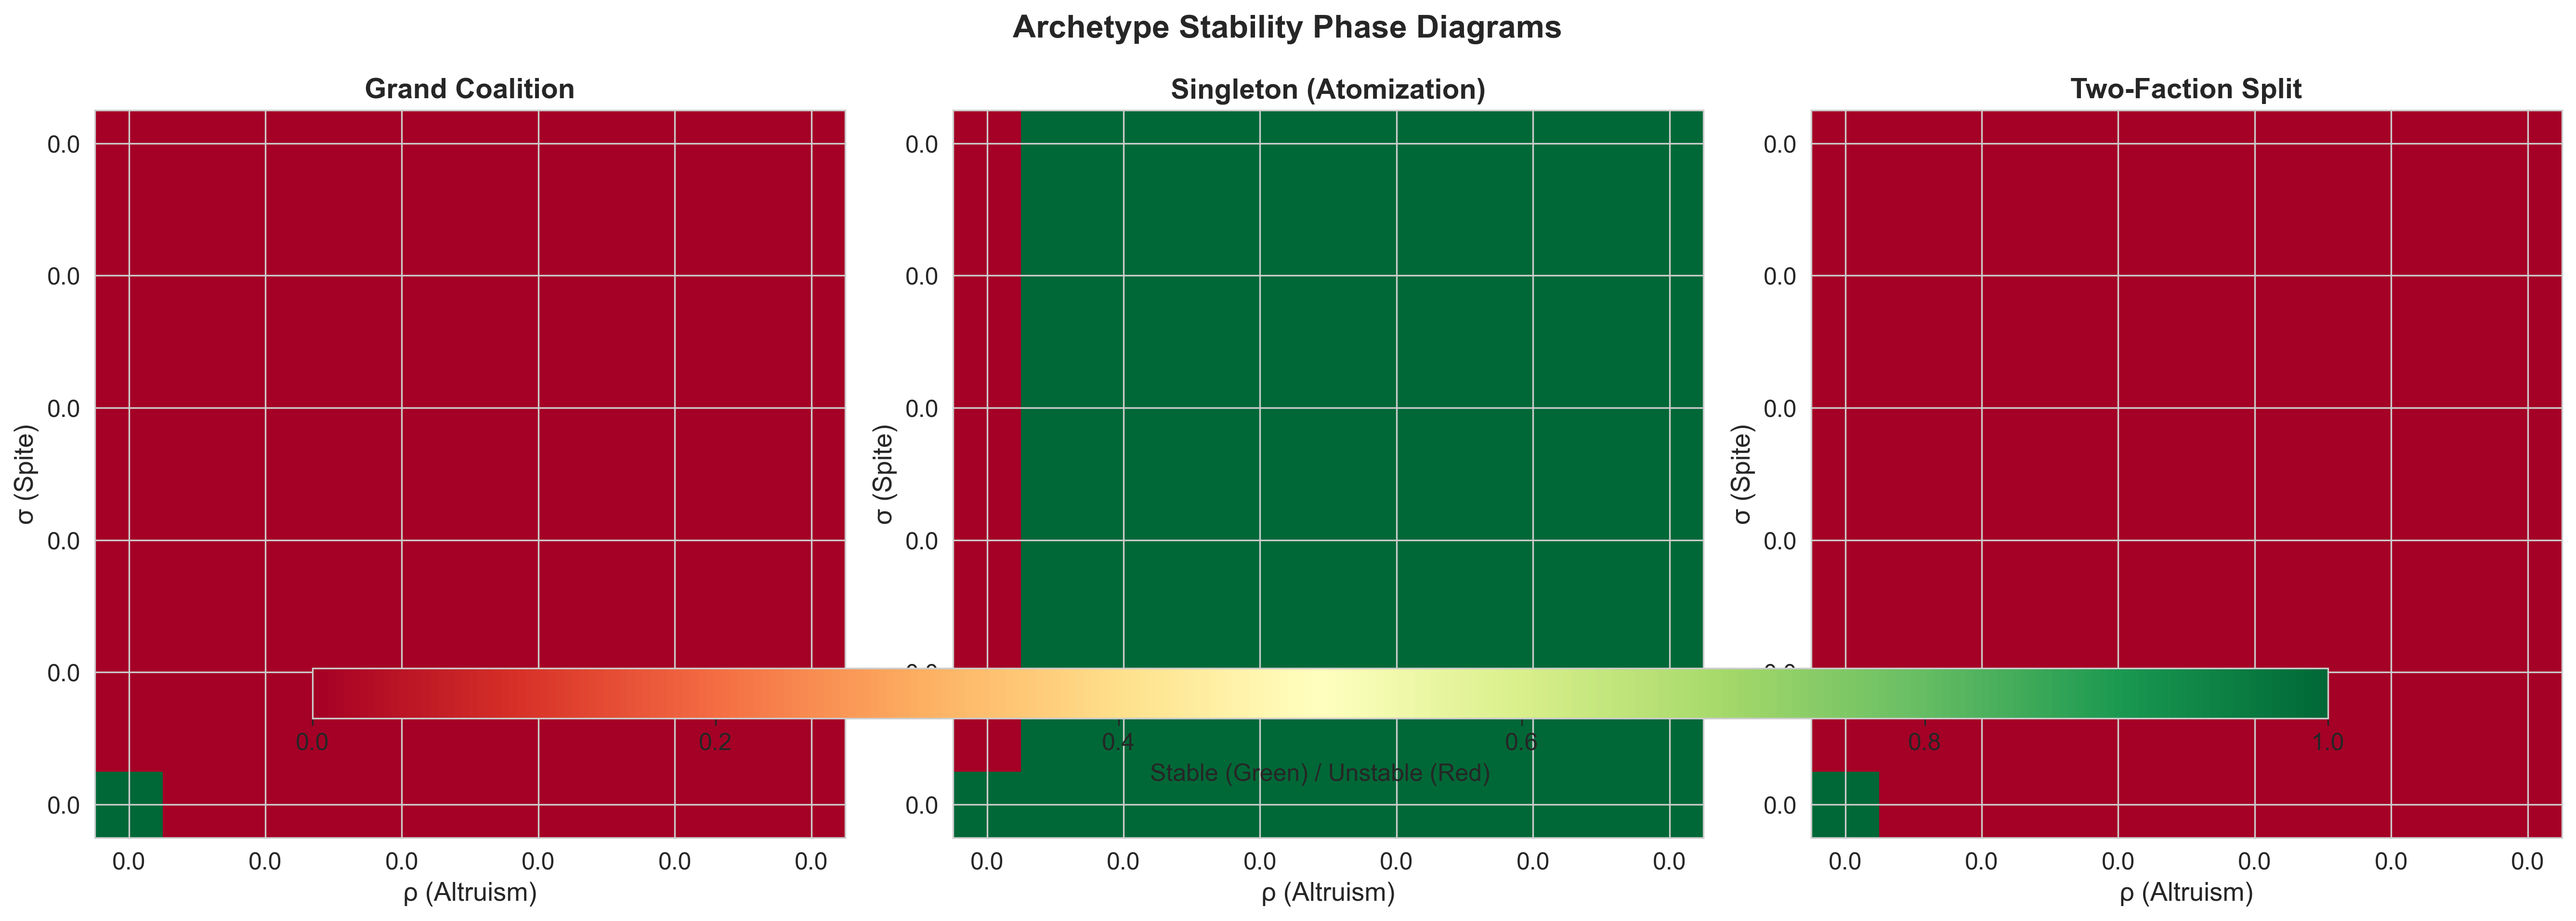
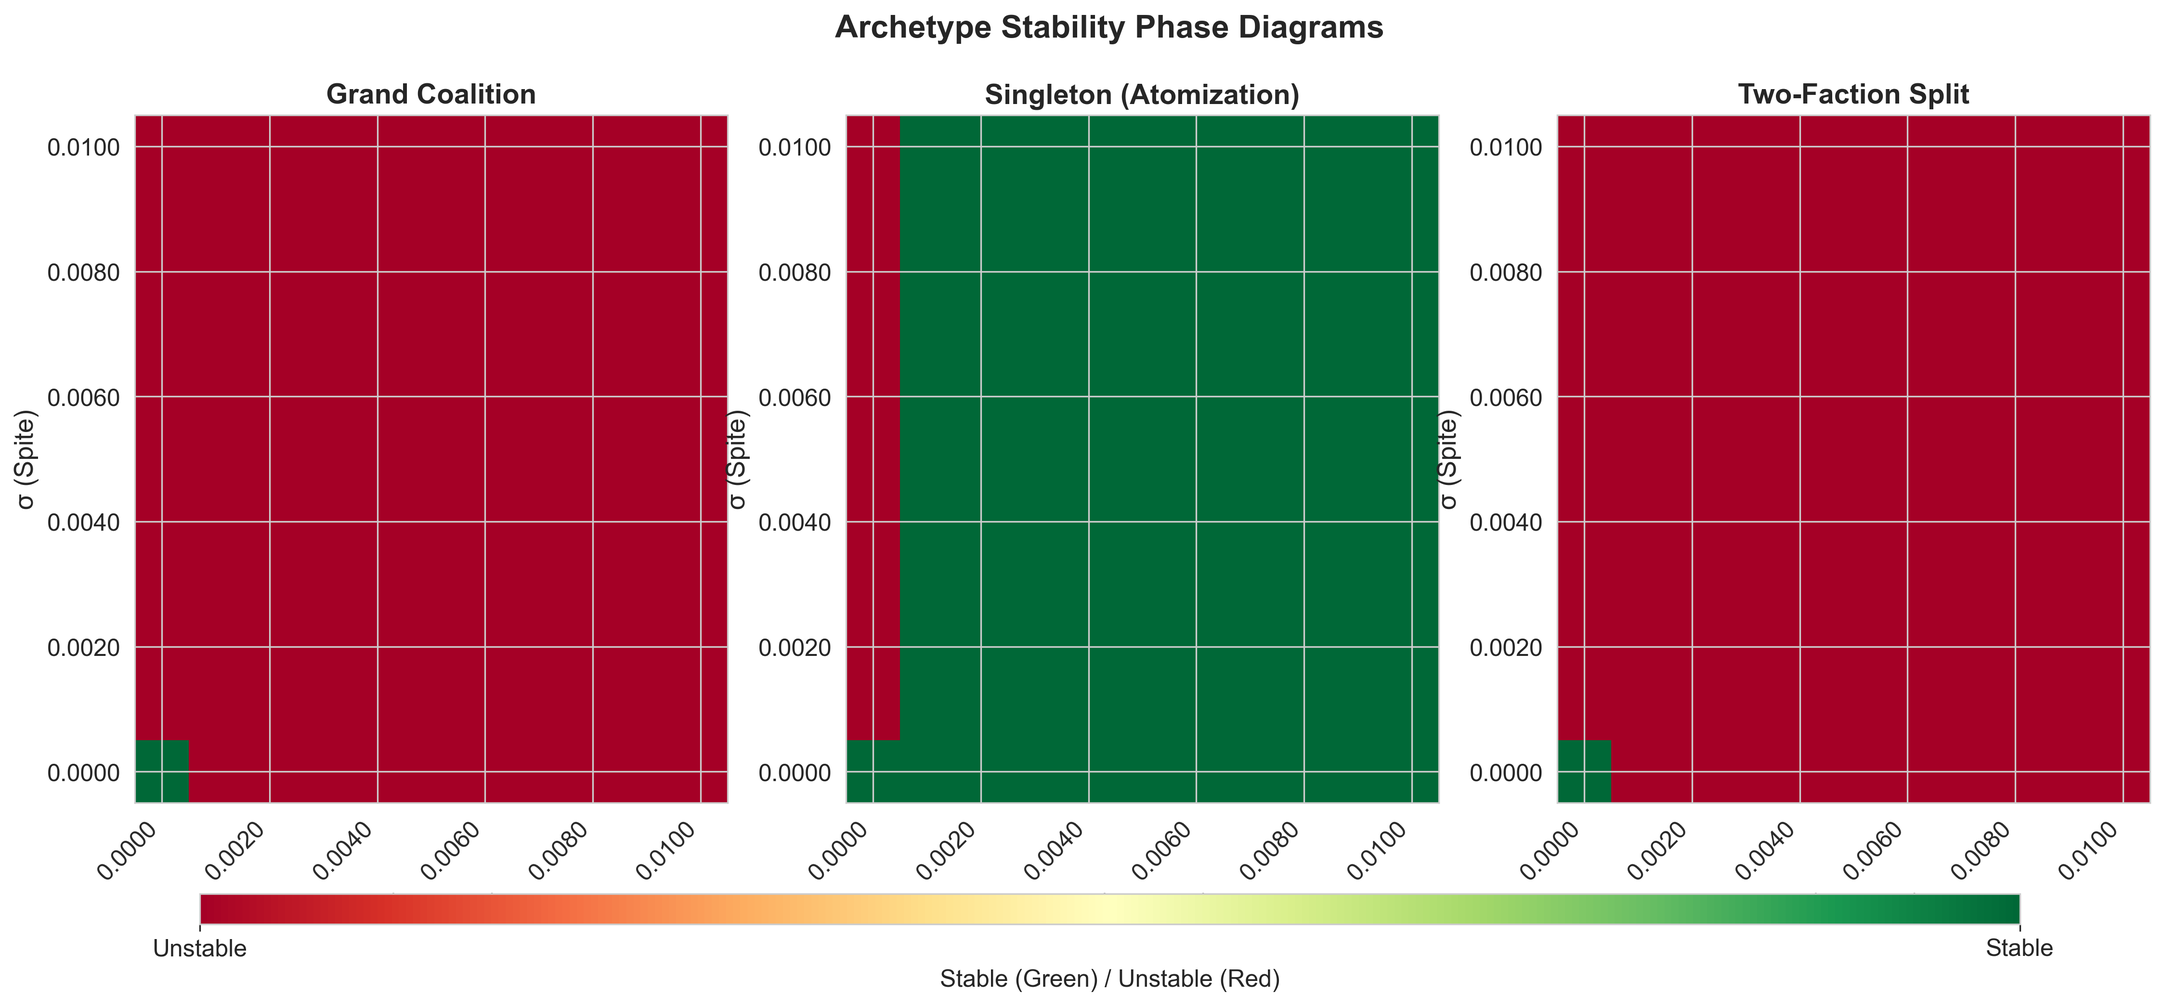
visualization

diff --git a/visualization.py b/visualization.py
@@ -88,8 +88,8 @@ class ExperimentVisualizer:
             arch = r['archetype']
             matrices[arch][i, j] = 1 if r['is_stable'] else 0
         
-        # Create three-panel figure
-        fig, axes = plt.subplots(1, 3, figsize=(18, 6))
+        # Create three-panel figure with space for colorbar at bottom
+        fig, axes = plt.subplots(1, 3, figsize=(18, 7))
         
         titles = {
             'grand': 'Grand Coalition',
@@ -97,25 +97,32 @@ class ExperimentVisualizer:
             'factions': 'Two-Faction Split'
         }
         
+        # Determine tick step for readable axis labels
+        tick_step = max(1, len(rho_values) // 5)
+        
         for ax, arch in zip(axes, archetypes):
             im = ax.imshow(matrices[arch], cmap='RdYlGn', aspect='auto', origin='lower',
                           vmin=0, vmax=1)
             
-            ax.set_xticks(range(0, len(rho_values), max(1, len(rho_values)//5)))
-            ax.set_yticks(range(0, len(sigma_values), max(1, len(sigma_values)//5)))
-            ax.set_xticklabels([f'{rho_values[i]:.1f}' for i in range(0, len(rho_values), max(1, len(rho_values)//5))])
-            ax.set_yticklabels([f'{sigma_values[i]:.1f}' for i in range(0, len(sigma_values), max(1, len(sigma_values)//5))])
+            ax.set_xticks(range(0, len(rho_values), tick_step))
+            ax.set_yticks(range(0, len(sigma_values), tick_step))
+            # Use .4f format to show full precision for small values like 0.001
+            ax.set_xticklabels([f'{rho_values[i]:.4f}' for i in range(0, len(rho_values), tick_step)], rotation=45, ha='right')
+            ax.set_yticklabels([f'{sigma_values[i]:.4f}' for i in range(0, len(sigma_values), tick_step)])
             
             ax.set_xlabel('ρ (Altruism)', fontsize=13)
             ax.set_ylabel('σ (Spite)', fontsize=13)
             ax.set_title(titles[arch], fontsize=14, weight='bold')
         
-        # Add colorbar
-        cbar = fig.colorbar(im, ax=axes, orientation='horizontal', pad=0.1, aspect=40)
-        cbar.set_label('Stable (Green) / Unstable (Red)', fontsize=12)
+        fig.suptitle('Archetype Stability Phase Diagrams', fontsize=16, weight='bold', y=0.98)
         
-        fig.suptitle('Archetype Stability Phase Diagrams', fontsize=16, weight='bold')
-        plt.tight_layout()
+        # Add colorbar below the plots (not overlapping)
+        fig.subplots_adjust(bottom=0.2)
+        cbar_ax = fig.add_axes([0.15, 0.08, 0.7, 0.03])  # [left, bottom, width, height]
+        cbar = fig.colorbar(im, cax=cbar_ax, orientation='horizontal')
+        cbar.set_label('Stable (Green) / Unstable (Red)', fontsize=12)
+        cbar.set_ticks([0, 1])
+        cbar.set_ticklabels(['Unstable', 'Stable'])
         
         output_path = self.output_dir / 'archetype_stability_phases.png'
         plt.savefig(output_path, dpi=300, bbox_inches='tight')
@@ -148,44 +155,43 @@ class ExperimentVisualizer:
         sigma_values = [r['sigma'] for r in results]
         split_incentives = [r['split_incentive'] for r in results]
         is_stable = [r['is_split_stable'] for r in results]
-        social_costs = [r['social_cost_grand'] for r in results]
         
-        # Create figure with two subplots
-        fig, (ax1, ax2) = plt.subplots(2, 1, figsize=(12, 10))
+        # Create single figure (removed the second subplot about efficiency)
+        fig, ax = plt.subplots(figsize=(10, 6))
         
-        # Plot 1: Split incentive
+        # Plot split incentive vs sigma
         colors = ['green' if stable else 'red' for stable in is_stable]
-        ax1.plot(sigma_values, split_incentives, 'o-', linewidth=2, markersize=6)
-        ax1.scatter(sigma_values, split_incentives, c=colors, s=100, alpha=0.7, edgecolors='black')
+        ax.plot(sigma_values, split_incentives, 'o-', linewidth=2, markersize=8, color='steelblue')
+        ax.scatter(sigma_values, split_incentives, c=colors, s=120, alpha=0.8, edgecolors='black', zorder=5)
         
-        # Mark transition point
+        # Mark transition point if exists
+        has_transition = False
         for i in range(1, len(is_stable)):
             if is_stable[i-1] and not is_stable[i]:
-                ax1.axvline(x=sigma_values[i], color='orange', linestyle='--', linewidth=2, 
-                           label=f'Instability Threshold (σ≈{sigma_values[i]:.2f})')
+                ax.axvline(x=sigma_values[i], color='orange', linestyle='--', linewidth=2, 
+                           label=f'Instability Threshold (σ≈{sigma_values[i]:.4f})')
+                has_transition = True
                 break
         
-        ax1.axhline(y=0, color='black', linestyle='-', linewidth=1, alpha=0.3)
-        ax1.set_xlabel('σ (Out-Group Spite)', fontsize=14)
-        ax1.set_ylabel('Split Incentive ΔV', fontsize=14)
-        ax1.set_title('Mechanism of Grand Coalition Collapse', fontsize=16, weight='bold')
-        ax1.legend(fontsize=11)
-        ax1.grid(True, alpha=0.3)
+        ax.axhline(y=0, color='black', linestyle='-', linewidth=1, alpha=0.3)
+        ax.set_xlabel('σ (Out-Group Spite)', fontsize=14)
+        ax.set_ylabel('Split Incentive ΔV', fontsize=14)
+        ax.set_title('Mechanism of Grand Coalition Collapse:\nSplit Incentive Increases with Spite', fontsize=16, weight='bold')
+        if has_transition:
+            ax.legend(fontsize=11, loc='upper left')
+        ax.grid(True, alpha=0.3)
+        
+        # Format x-axis to show full precision
+        ax.xaxis.set_major_formatter(plt.FuncFormatter(lambda x, p: f'{x:.4f}'))
+        plt.xticks(rotation=45, ha='right')
         
         # Add annotations
-        ax1.text(0.02, 0.98, 'Stable Zone\n(ΔV ≤ 0)', transform=ax1.transAxes,
+        ax.text(0.02, 0.98, 'Stable Zone\n(ΔV ≤ 0)', transform=ax.transAxes,
                 fontsize=11, color='green', weight='bold', va='top',
                 bbox=dict(boxstyle='round', facecolor='white', alpha=0.8))
-        ax1.text(0.98, 0.02, 'Unstable Zone\n(ΔV > 0)', transform=ax1.transAxes,
+        ax.text(0.98, 0.15, 'Unstable Zone\n(ΔV > 0)', transform=ax.transAxes,
                 fontsize=11, color='red', weight='bold', ha='right',
                 bbox=dict(boxstyle='round', facecolor='white', alpha=0.8))
-        
-        # Plot 2: Social cost (demonstrates it's not about efficiency)
-        ax2.plot(sigma_values, social_costs, 's-', linewidth=2, markersize=6, color='purple')
-        ax2.set_xlabel('σ (Out-Group Spite)', fontsize=14)
-        ax2.set_ylabel('Social Cost (Grand Coalition)', fontsize=14)
-        ax2.set_title('Splitting is NOT About Efficiency Loss', fontsize=16, weight='bold')
-        ax2.grid(True, alpha=0.3)
         
         plt.tight_layout()
         output_path = self.output_dir / 'splitting_mechanism.png'
@@ -233,21 +239,24 @@ class ExperimentVisualizer:
         # Create figure with two subplots
         fig, (ax1, ax2) = plt.subplots(1, 2, figsize=(16, 7))
         
+        # Determine tick step
+        tick_step = max(1, len(rho_values) // 5)
+        
         # Plot 1: Cost ratio heatmap
         im1 = ax1.imshow(cost_ratio_matrix, cmap='RdYlGn_r', aspect='auto', origin='lower',
-                        vmin=0.5, vmax=2.0)
+                        vmin=0.9, vmax=1.1)
         
-        ax1.set_xticks(range(0, len(rho_values), max(1, len(rho_values)//5)))
-        ax1.set_yticks(range(0, len(sigma_values), max(1, len(sigma_values)//5)))
-        ax1.set_xticklabels([f'{rho_values[i]:.1f}' for i in range(0, len(rho_values), max(1, len(rho_values)//5))])
-        ax1.set_yticklabels([f'{sigma_values[i]:.1f}' for i in range(0, len(sigma_values), max(1, len(sigma_values)//5))])
+        ax1.set_xticks(range(0, len(rho_values), tick_step))
+        ax1.set_yticks(range(0, len(sigma_values), tick_step))
+        ax1.set_xticklabels([f'{rho_values[i]:.4f}' for i in range(0, len(rho_values), tick_step)], rotation=45, ha='right')
+        ax1.set_yticklabels([f'{sigma_values[i]:.4f}' for i in range(0, len(sigma_values), tick_step)])
         
         ax1.set_xlabel('ρ (Altruism)', fontsize=14)
         ax1.set_ylabel('σ (Spite)', fontsize=14)
-        ax1.set_title('Cost Ratio: Stable Structure / Selfish Baseline', fontsize=16, weight='bold')
+        ax1.set_title('Cost Ratio: Stable Structure / Selfish Baseline', fontsize=14, weight='bold')
         
         cbar1 = plt.colorbar(im1, ax=ax1)
-        cbar1.set_label('Cost Ratio (<1: Better, >1: Worse)', fontsize=12)
+        cbar1.set_label('Cost Ratio (<1: Better, >1: Worse)', fontsize=11)
         
         # Add 1.0 contour line
         contour = ax1.contour(cost_ratio_matrix, levels=[1.0], colors='black', 
@@ -259,14 +268,14 @@ class ExperimentVisualizer:
         im2 = ax2.imshow(archetype_matrix, cmap=cmap_arch, aspect='auto', origin='lower',
                         vmin=-0.5, vmax=2.5)
         
-        ax2.set_xticks(range(0, len(rho_values), max(1, len(rho_values)//5)))
-        ax2.set_yticks(range(0, len(sigma_values), max(1, len(sigma_values)//5)))
-        ax2.set_xticklabels([f'{rho_values[i]:.1f}' for i in range(0, len(rho_values), max(1, len(rho_values)//5))])
-        ax2.set_yticklabels([f'{sigma_values[i]:.1f}' for i in range(0, len(sigma_values), max(1, len(sigma_values)//5))])
+        ax2.set_xticks(range(0, len(rho_values), tick_step))
+        ax2.set_yticks(range(0, len(sigma_values), tick_step))
+        ax2.set_xticklabels([f'{rho_values[i]:.4f}' for i in range(0, len(rho_values), tick_step)], rotation=45, ha='right')
+        ax2.set_yticklabels([f'{sigma_values[i]:.4f}' for i in range(0, len(sigma_values), tick_step)])
         
         ax2.set_xlabel('ρ (Altruism)', fontsize=14)
         ax2.set_ylabel('σ (Spite)', fontsize=14)
-        ax2.set_title('Most Stable Archetype', fontsize=16, weight='bold')
+        ax2.set_title('Most Stable Archetype', fontsize=14, weight='bold')
         
         # Custom legend
         from matplotlib.patches import Patch

diff --git a/main.tex b/main.tex
@@ -827,8 +827,8 @@ We next investigate the precise mechanism by which spite induces grand coalition
 
 \begin{figure}[htbp]
 \centering
-\includegraphics[width=0.85\textwidth]{figures/splitting_mechanism.png}
-\caption{Mechanism of grand coalition collapse. Top panel: Split incentive $\Delta V$ increases monotonically with $\sigma$. Bottom panel: Social cost remains constant at 17.0, demonstrating that splitting is motivated by strategic spite, not efficiency concerns.}
+\includegraphics[width=0.75\textwidth]{figures/splitting_mechanism.png}
+\caption{Mechanism of grand coalition collapse. Split incentive $\Delta V$ increases monotonically with spite parameter $\sigma$, from approximately 0.002 at $\sigma = 0$ to 0.204 at $\sigma = 0.01$. Green points indicate stable configurations; red points indicate instability. The linear relationship demonstrates that splitting is driven by the strategic value of creating out-groups to harm, rather than efficiency considerations.}
 \label{fig:splitting_mechanism}
 \end{figure}
 
